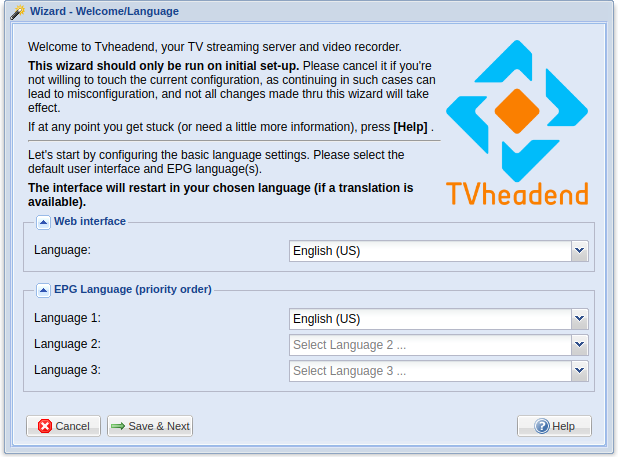
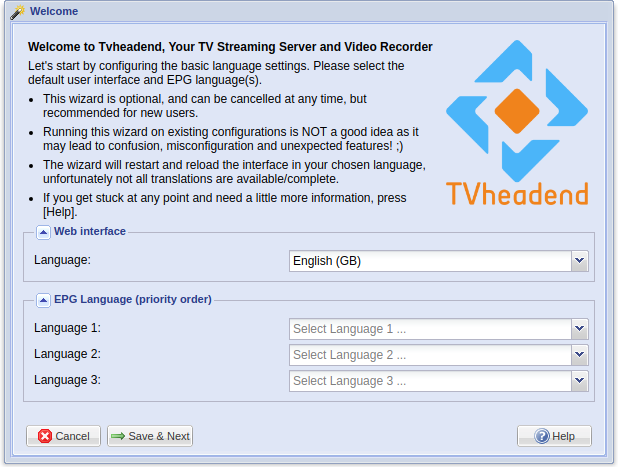
wizard: spruce it up a bit

diff --git a/src/wizard.c b/src/wizard.c
@@ -240,7 +240,7 @@ wizard_page_t *wizard_hello(const char *lang)
   };
   wizard_page_t *page =
     page_init("hello", "wizard_hello",
-    N_("Wizard - Welcome/Language"));
+    N_("Welcome"));
   idclass_t *ic = (idclass_t *)page->idnode.in_class;
   wizard_hello_t *w;
   htsmsg_t *m;
@@ -464,7 +464,7 @@ wizard_page_t *wizard_login(const char *lang)
   };
   wizard_page_t *page =
     page_init("login", "wizard_login",
-    N_("Wizard - Access Control"));
+    N_("Access Control"));
   idclass_t *ic = (idclass_t *)page->idnode.in_class;
   wizard_login_t *w;
   access_entry_t *ae;
@@ -667,7 +667,7 @@ wizard_page_t *wizard_network(const char *lang)
     PREV_BUTTON(login),
     NEXT_BUTTON(muxes),
   };
-  wizard_page_t *page = page_init("network", "wizard_network", N_("Wizard - Network Settings"));
+  wizard_page_t *page = page_init("network", "wizard_network", N_("Tuner and Network"));
   idclass_t *ic = (idclass_t *)page->idnode.in_class;
   wizard_network_t *w;
   mpegts_network_t *mn;
@@ -959,7 +959,7 @@ wizard_page_t *wizard_muxes(const char *lang)
     PREV_BUTTON(network),
     NEXT_BUTTON(status),
   };
-  wizard_page_t *page = page_init("muxes", "wizard_muxes", N_("Wizard - Assign Predefined Muxes to Networks"));
+  wizard_page_t *page = page_init("muxes", "wizard_muxes", N_("Predefined Muxes"));
   idclass_t *ic = (idclass_t *)page->idnode.in_class;
   wizard_muxes_t *w;
   mpegts_network_t *mn;
@@ -1044,7 +1044,7 @@ wizard_page_t *wizard_status(const char *lang)
     NEXT_BUTTON(mapping),
     {}
   };
-  wizard_page_t *page = page_init("status", "wizard_status", N_("Wizard - Scanning for Services"));
+  wizard_page_t *page = page_init("status", "wizard_status", N_("Scanning"));
   idclass_t *ic = (idclass_t *)page->idnode.in_class;
   ic->ic_properties = props;
   ic->ic_groups = groups;
@@ -1136,7 +1136,7 @@ wizard_page_t *wizard_mapping(const char *lang)
     NEXT_BUTTON(channels),
     {}
   };
-  wizard_page_t *page = page_init("mapping", "wizard_mapping", N_("Wizard - Service Mapping"));
+  wizard_page_t *page = page_init("mapping", "wizard_mapping", N_("Service Mapping"));
   idclass_t *ic = (idclass_t *)page->idnode.in_class;
   wizard_mapping_t *w;
   ic->ic_properties = props;
@@ -1189,7 +1189,7 @@ wizard_page_t *wizard_channels(const char *lang)
     LAST_BUTTON(),
     {}
   };
-  wizard_page_t *page = page_init("channels", "wizard_channels", N_("Wizard - Finished"));
+  wizard_page_t *page = page_init("channels", "wizard_channels", N_("Finished"));
   idclass_t *ic = (idclass_t *)page->idnode.in_class;
   access_entry_t *ae;
 

diff --git a/docs/markdown/firstconfig.md b/docs/markdown/firstconfig.md
@@ -19,7 +19,7 @@ pressing the **Start wizard** button in **Configuration -> General -> Base**.
 [Introduction](introduction) before continuing with the wizard, as it 
 contains lots of useful info!
 
-### 1. Welcome/Language
+### 1. Welcome
 
 The first part of the wizard is where you select the basic language settings, 
 if you don't enter a preferred language, US English will be used as a 
@@ -52,7 +52,7 @@ is not recommended that you allow anonymous access to the admin account.
 If you plan on accessing Tvheadend over the Internet, make sure you use 
 strong credentials and do not allow anonymous access at all. 
 
-### 3. Network Settings
+### 3. Tuner and Network
 
 Many tuners are able to receive different signal types, If you receive 
 your channels through an..
@@ -73,7 +73,7 @@ Internet m3u playlist            | ```IPTV```
   Selecting more than one tuner per device can thus result in unexpected
   behavior.
   
-### 4. Assign Predefined Muxes to Networks
+### 4. Predefined Muxes
 
 Assign predefined muxes to networks. To save you from manually entering
 muxes, Tvheadend includes predefined mux lists. Please select an option 
@@ -89,7 +89,7 @@ from the list for each network.
 * Networks already configured will not be shown.
 * Selecting the wrong list may cause the scan (on the next page) to fail.
 
-### 5. Scanning for Services
+### 5. Scanning
 
 Tvheadend should now be scanning for available services. Please wait until the
 scan completes.
@@ -258,7 +258,7 @@ or record).
   
 See [Services](class/mpegts_service) for a detailed look into service mapping.
 
-**Bouquets**: Many service providers use bouquets for channel management and just 
+**Bouquets**: Many service providers - mostly those using satellite - use bouquets for channel management and just 
 like a standard set-top box Tvheadend can use these to automatically 
 manage and keep your channels up-to-date. If you would like to use 
 bouquets see [here](class/bouquet).

diff --git a/docs/wizard/hello.md b/docs/wizard/hello.md
@@ -1,17 +1,15 @@
-Welcome to Tvheadend, your TV streaming server and video recorder.
-
-**This wizard should only be run on initial set-up.** Please cancel it if 
-you're not willing to touch the current configuration, as continuing in 
-such cases can lead to misconfiguration, and not all changes made thru 
-this wizard will take effect.
-
-If at any point you get stuck (or need a little more information), 
-press **[Help]**.
-
----
+**Welcome to Tvheadend, Your TV Streaming Server and Video Recorder**
 
 Let's start by configuring the basic language settings. Please select 
 the default user interface and EPG language(s).
 
-**The interface will restart in your chosen language (if a translation 
-is available).**
+* This wizard is optional, and can be cancelled at any time, but
+recommended for new users.
+* Running this wizard on existing configurations is NOT a good idea as
+it may lead to confusion, misconfiguration and unexpected features! ;)
+* The wizard will restart and reload the interface in your chosen
+language, unfortunately not all translations are available/complete.
+* If you get stuck at any point and need a little more information, 
+press [Help].
+
+

diff --git a/docs/wizard/muxes.md b/docs/wizard/muxes.md
@@ -1,14 +1,13 @@
-Assign predefined muxes to networks. To save you from manually entering
-muxes, Tvheadend includes predefined mux lists. Please select an option 
-from the list for each network.
+**Assign Predefined Muxes to Networks**
 
-Note, the pre-defined lists are not always up-to-date, this generally 
+To save you from manually entering muxes, Tvheadend includes predefined
+mux lists. Please select an option from the list for each network.
+
+
+Pre-defined lists are not always up-to-date, this generally 
 isn't a problem provided that one of the muxes in list 
 is active, and contains network information. 
 
+
 **If you don't see any options below, you need to go back and assign a 
 network type to a tuner.**
-
----
-
-Don't forget to check out the **[Help]** for more info!

diff --git a/docs/wizard/login.md b/docs/wizard/login.md
@@ -1,4 +1,4 @@
-Enter the access control details to secure your system.
+**Enter Access Control Details to Secure Your System**
 
 The first part of this covers the network details
 for address-based access to the system; for example,
@@ -9,8 +9,3 @@ or 0.0.0.0/0 or empty value for access from any system.
 This works alongside the second part, which is a familiar
 username/password combination, so provide these for both
 an administrator and regular (day-to-day) user.
-
----
-
-Be sure to have a quick read of the **[Help]** as it contains some 
-important security tips!

diff --git a/docs/wizard/channels.md b/docs/wizard/channels.md
@@ -1,4 +1,4 @@
-You are now finished.
+**You are now Finished**
 
 You may further customize your settings by editing channel numbers, etc.
 
@@ -8,7 +8,6 @@ removed. Please then the use credentials you defined thru this wizard.
 If you require further help, check out
 [Tvheadend.org](http://tvheadend.org) or chat to us on
 [IRC](https://kiwiirc.com/client/chat.freenode.net/?nick=tvhhelp|?#hts).
-
 
 Thank you for using Tvheadend (and don't forget to
 [donate](http://tvheadend.org/projects/tvheadend/wiki/Donate))! :)

diff --git a/docs/wizard/mapping.md b/docs/wizard/mapping.md
@@ -1,4 +1,4 @@
-Map all discovered services to channels.
+**Map Services to Channels**
 
 In order for your frontend client(s) (such as Kodi, Movian, and similar)
 to see/play channels, you must first map discovered services to
@@ -7,8 +7,3 @@ channels. If you would like Tvheadend to do this for you, check the
 
 **You can skip this step (do not check 'Map all services') and
 map services to channels manually.**
-
----
-
-You can see more info on the various options here by pressing the 
-**[Help]** button!

diff --git a/docs/wizard/channels2.md b/docs/wizard/channels2.md
@@ -1,11 +1,10 @@
-You are now finished.
+**You are now Finished**
 
 You may further customize your settings by editing channel numbers, etc.
 
 If you require further help, check out
 [Tvheadend.org](http://tvheadend.org) or chat to us on
 [IRC](https://kiwiirc.com/client/chat.freenode.net/?nick=tvhhelp|?#hts).
-
 
 Thank you for using Tvheadend (and don't forget to
 [donate](http://tvheadend.org/projects/tvheadend/wiki/Donate))! :)

diff --git a/docs/wizard/network.md b/docs/wizard/network.md
@@ -1,7 +1,5 @@
+**Tuner and Network**
+
 Now let's get your tuners configured. Go ahead and select a network for
 each of the tuners you would like to use. If you don't assign a
 network to a tuner it __won't__ be used.
-
----
-
-Don't forget to check out the **[Help]**!

diff --git a/docs/wizard/status.md b/docs/wizard/status.md
@@ -1,7 +1,4 @@
+**Scanning**
+
 Tvheadend is now scanning for available services. Please wait until the
 scan completes..
-
-
----
-
-While the scan progresses check out the **[Help]** for more info!
